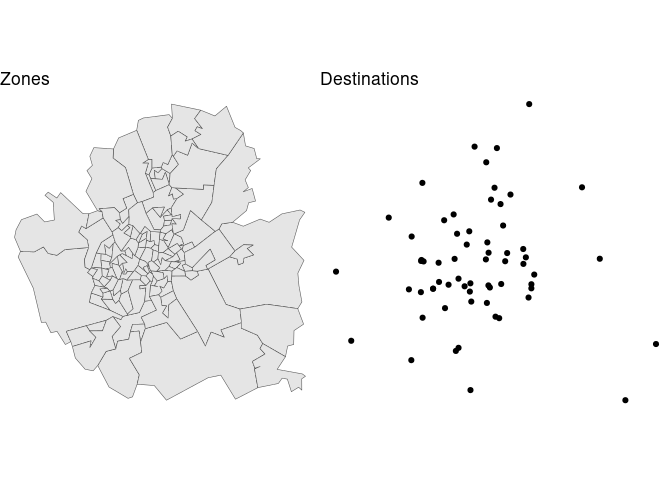
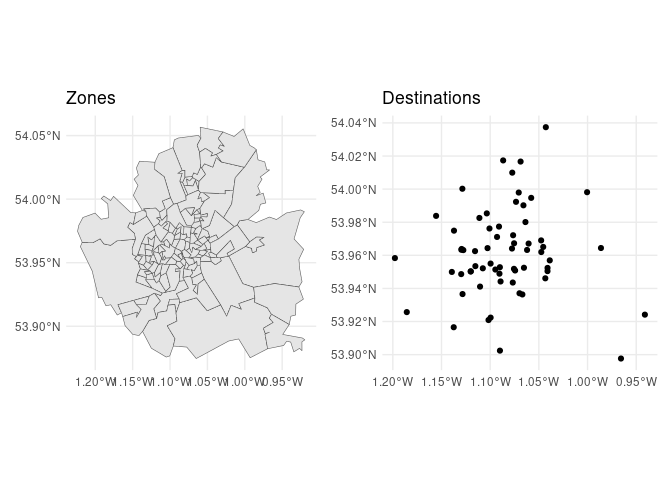
Update with nicer plot

diff --git a/README.md b/README.md
@@ -82,9 +82,6 @@ od_from_si_full = simodels::si_to_od(zones_york, destinations_york)
 od_from_si = simodels::si_to_od(zones_york, destinations_york, max_dist = max_dist)
 ```
 
-    4338 OD pairs remaining after removing those with a distance greater than 5000 meters:
-    57% of all possible OD pairs
-
 ![](README_files/figure-commonmark/plot-od-all-1.png)
 
 ![](README_files/figure-commonmark/plot-od-all-2.png)
@@ -121,12 +118,23 @@ od_res = simodels::si_calculate(
   )
 ```
 
-We can assess the model fit at thre levels: the origin level (number of
+We’ll make one adjustment to the output dataset, renaming the
+`interaction` column to `trips`, and setting the total number of trips
+to be the same as the total number of pupils in the destinations
+dataset:
+
+``` r
+interaction_overestimate_factor = sum(destinations_york$n_pupils) / sum(od_res$interaction)
+od_res = od_res |>
+  dplyr::mutate(
+    trips = interaction * interaction_overestimate_factor
+  )
+```
+
+We can assess the model fit at three levels: the origin level (number of
 students departing from each zone), the destination level (the number
 arriving at each school in the input dataset) and the origin-destination
 level.
-
-    `geom_smooth()` using formula = 'y ~ x'
 
 ![](README_files/figure-commonmark/r-squared-1.png)
 
